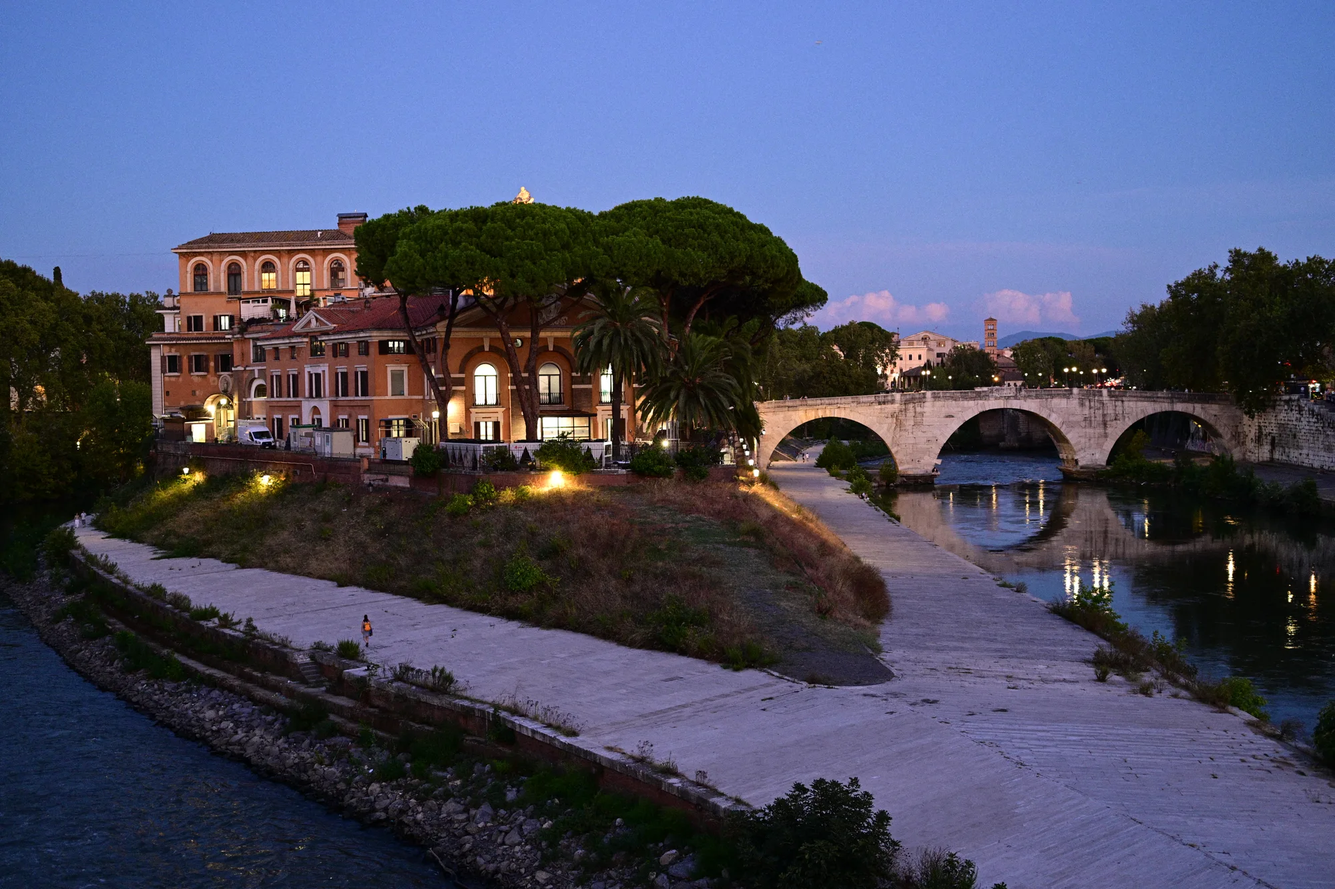
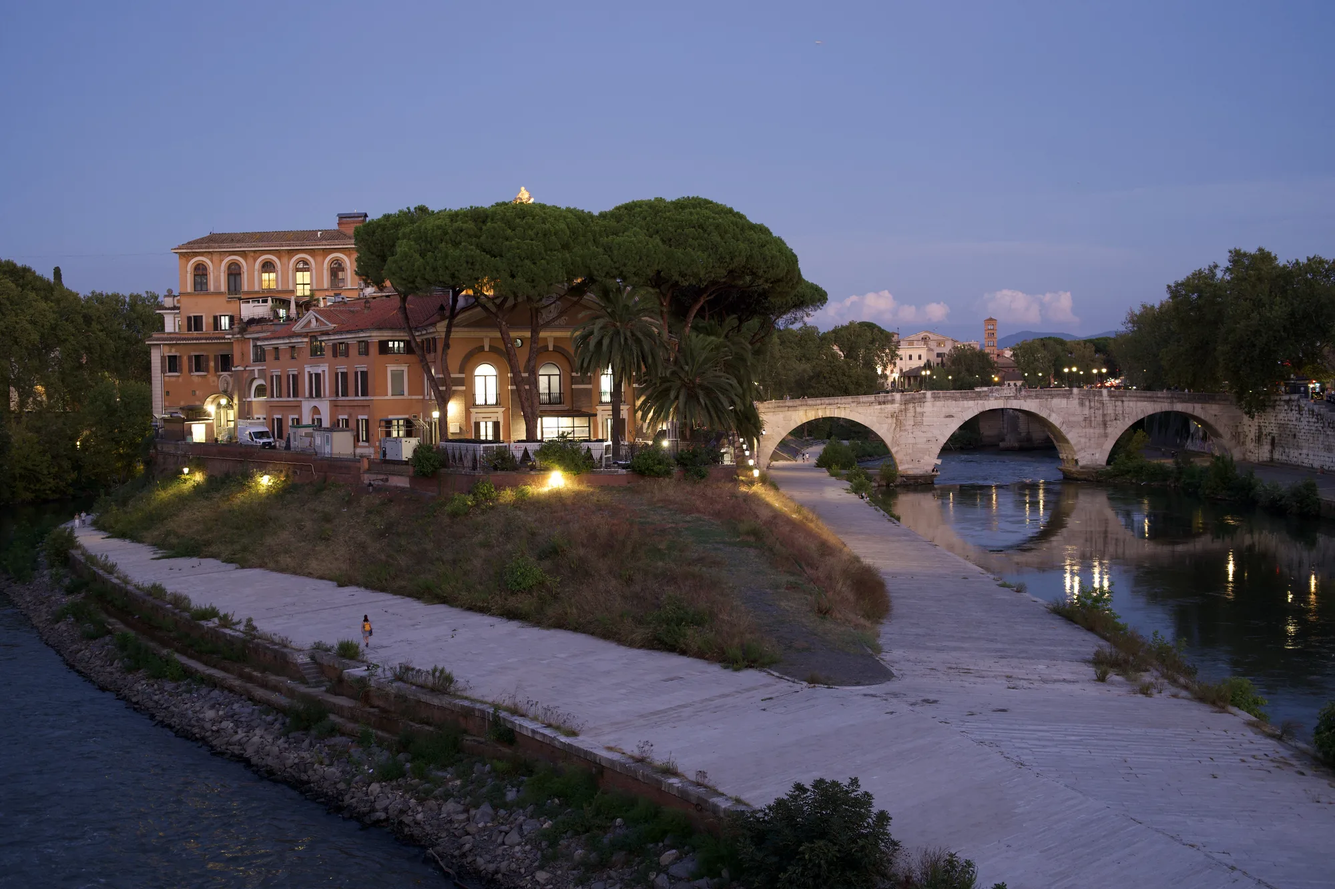
Compare against Apple's default RAW rendering in the README
The before image is now the NEF as macOS renders it instead of the camera JPEG.

diff --git a/README.md b/README.md
@@ -8,9 +8,9 @@ Negs is built on two open-source projects: Andrea Volpato's [spektrafilm](https:
 
 **[Download for Mac](https://github.com/noahhaasis/negs/releases)** · macOS 14 or later · Apple silicon
 
-| Camera JPEG | Negs · Kodak Ektar 100 |
+| RAW · Apple default | Negs · Kodak Ektar 100 |
 |---|---|
-| ![Rome at dusk, straight from the camera](docs/readme/compare-before.webp) | ![The same photo developed on Ektar 100 in Negs](docs/readme/compare-after.webp) |
+| ![Rome at dusk, the RAW as macOS renders it by default](docs/readme/compare-before.webp) | ![The same photo developed on Ektar 100 in Negs](docs/readme/compare-after.webp) |
 
 ## A darkroom in a window
 
